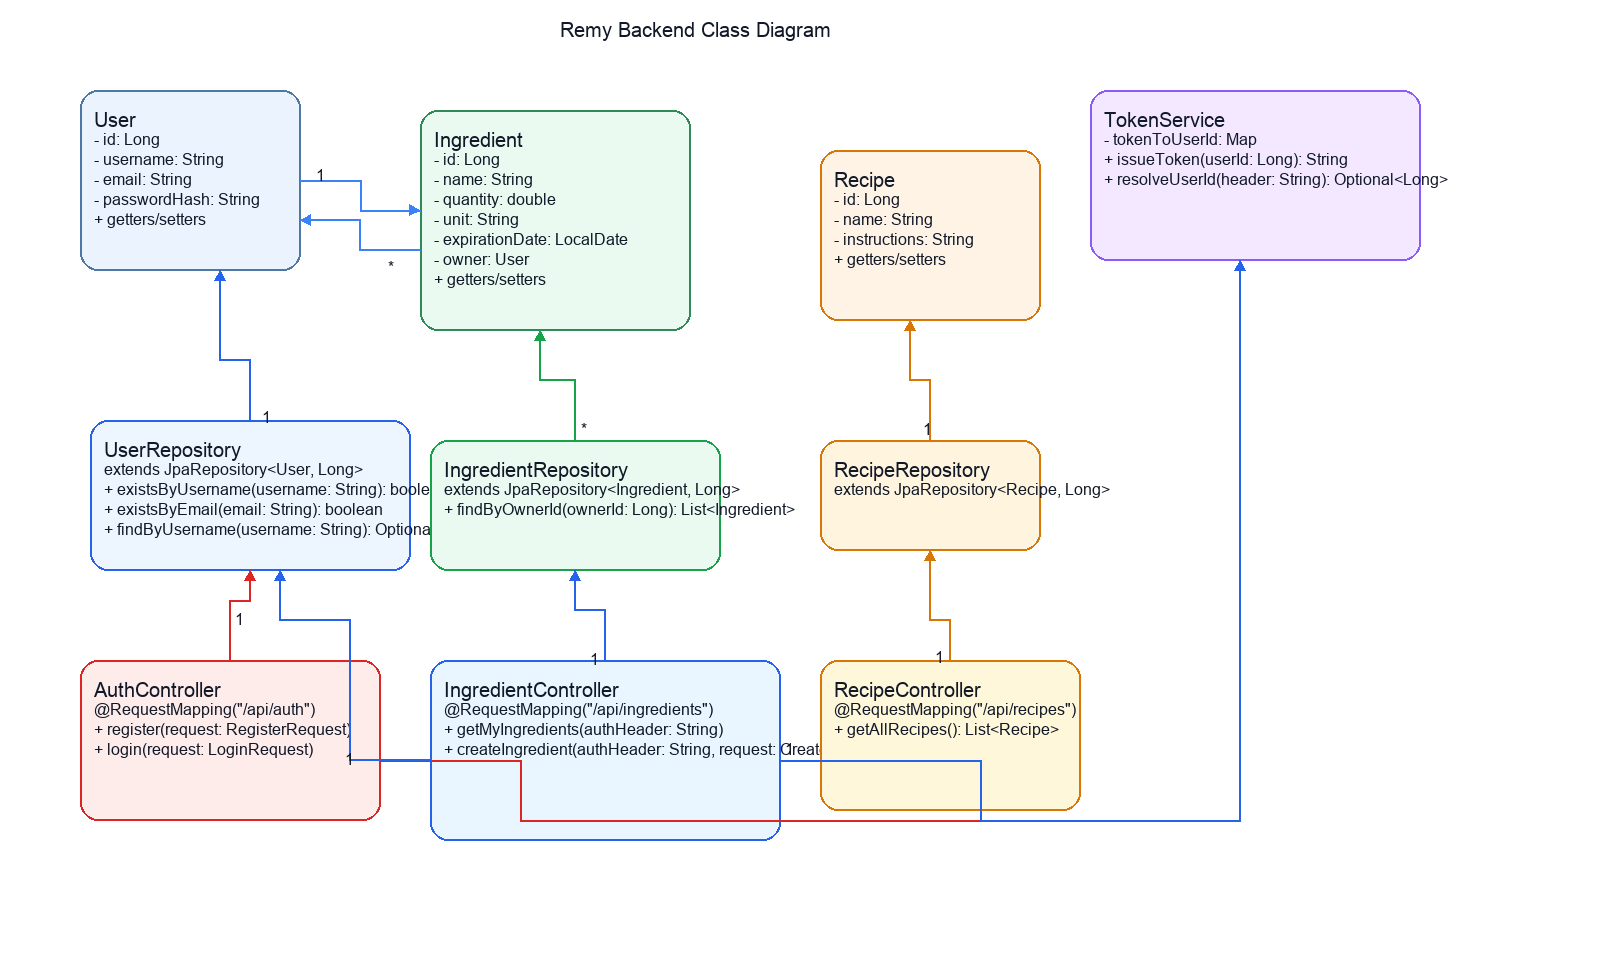
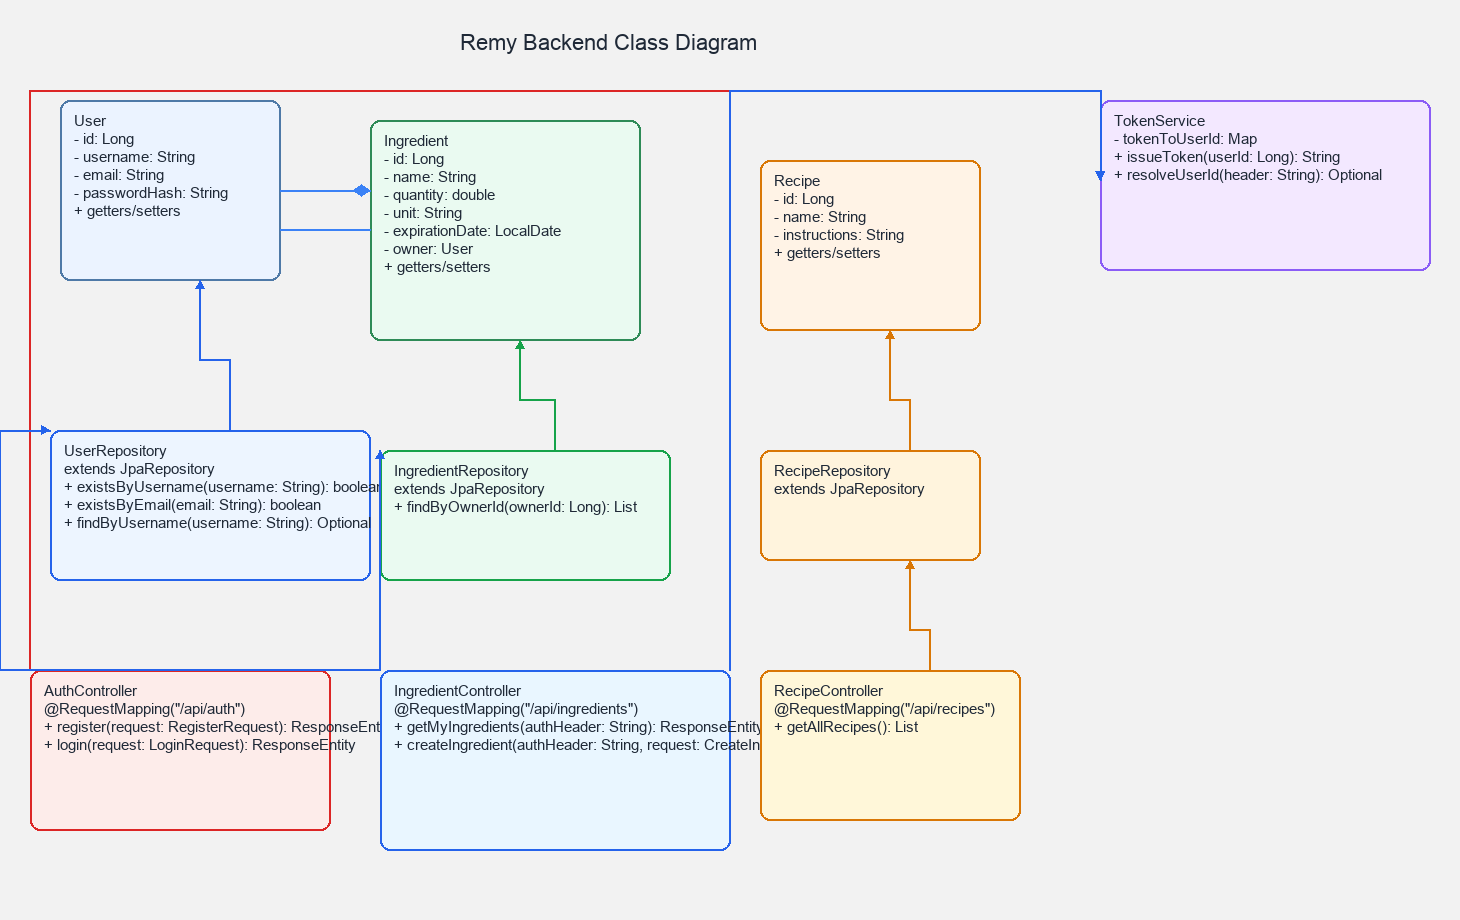
Update architecture diagram and related service tests

diff --git a/frontend/src/services/recipeServices.js b/frontend/src/services/recipeServices.js
@@ -7,3 +7,40 @@ export async function getAllRecipes() {
   }
   return response.json();
 }
+
+export async function createRecipe({ name, instructions }) {
+  const response = await fetch(`${API_BASE}/recipes`, {
+    method: 'POST',
+    headers: { 'Content-Type': 'application/json' },
+    body: JSON.stringify({ name, instructions }),
+  });
+  const data = await response.json().catch(() => ({}));
+  if (!response.ok) {
+    throw new Error(data.error || 'Could not create recipe.');
+  }
+  return data;
+}
+
+export async function updateRecipe(id, { name, instructions }) {
+  const response = await fetch(`${API_BASE}/recipes/${id}`, {
+    method: 'PUT',
+    headers: { 'Content-Type': 'application/json' },
+    body: JSON.stringify({ name, instructions }),
+  });
+  const data = await response.json().catch(() => ({}));
+  if (!response.ok) {
+    throw new Error(data.error || 'Could not update recipe.');
+  }
+  return data;
+}
+
+export async function deleteRecipe(id) {
+  const response = await fetch(`${API_BASE}/recipes/${id}`, {
+    method: 'DELETE',
+  });
+  const data = await response.json().catch(() => ({}));
+  if (!response.ok) {
+    throw new Error(data.error || 'Could not delete recipe.');
+  }
+  return data;
+}

diff --git a/frontend/src/services/ingredientServices.js b/frontend/src/services/ingredientServices.js
@@ -26,3 +26,31 @@ export async function createIngredient(token, { name, quantity, unit, expiration
   }
   return data;
 }
+
+export async function updateIngredient(token, id, { name, quantity, unit, expirationDate }) {
+  const response = await fetch(`${API_BASE}/ingredients/${id}`, {
+    method: 'PUT',
+    headers: {
+      'Content-Type': 'application/json',
+      Authorization: `Bearer ${token}`,
+    },
+    body: JSON.stringify({ name, quantity, unit, expirationDate }),
+  });
+  const data = await response.json().catch(() => ({}));
+  if (!response.ok) {
+    throw new Error(data.error || 'Could not update ingredient.');
+  }
+  return data;
+}
+
+export async function deleteIngredient(token, id) {
+  const response = await fetch(`${API_BASE}/ingredients/${id}`, {
+    method: 'DELETE',
+    headers: { Authorization: `Bearer ${token}` },
+  });
+  const data = await response.json().catch(() => ({}));
+  if (!response.ok) {
+    throw new Error(data.error || 'Could not delete ingredient.');
+  }
+  return data;
+}

diff --git a/backend/src/test/java/com/remy/backend/controller/CrudApiControllerTest.java b/backend/src/test/java/com/remy/backend/controller/CrudApiControllerTest.java
@@ -74,6 +74,22 @@ class CrudApiControllerTest {
     }
 
     @Test
+    void ingredientCreateRejectsMissingRequiredFields() {
+        String token = registerAndGetToken("crud_validation_user", "crud-validation@example.com", "password123");
+        HttpHeaders headers = new HttpHeaders();
+        headers.set("Authorization", "Bearer " + token);
+
+        ResponseEntity<Map> response = restTemplate.exchange(
+                "/api/ingredients",
+                HttpMethod.POST,
+                new HttpEntity<>(Map.of("name", "", "quantity", 1.0, "unit", "pieces"), headers),
+                Map.class);
+
+        assertThat(response.getStatusCode()).isEqualTo(HttpStatus.BAD_REQUEST);
+        assertThat(response.getBody()).containsEntry("error", "Name, unit, and expiration date are required.");
+    }
+
+    @Test
     void recipeCrudFlowWorks() {
         HttpHeaders headers = new HttpHeaders();
 
@@ -105,6 +121,75 @@ class CrudApiControllerTest {
 
         assertThat(deleteResponse.getStatusCode()).isEqualTo(HttpStatus.OK);
         assertThat(deleteResponse.getBody()).containsEntry("deleted", true);
+    }
+
+    @Test
+    void recipeCreateRejectsMissingInstructions() {
+        HttpHeaders headers = new HttpHeaders();
+
+        ResponseEntity<Map> response = restTemplate.exchange(
+                "/api/recipes",
+                HttpMethod.POST,
+                new HttpEntity<>(Map.of("name", "Pasta"), headers),
+                Map.class);
+
+        assertThat(response.getStatusCode()).isEqualTo(HttpStatus.BAD_REQUEST);
+        assertThat(response.getBody()).containsEntry("error", "Name and instructions are required.");
+    }
+
+    @Test
+    void ingredientUpdateRequiresOwnership() {
+        String ownerToken = registerAndGetToken("owner_user", "owner@example.com", "password123");
+        String otherToken = registerAndGetToken("other_user", "other@example.com", "password123");
+
+        HttpHeaders ownerHeaders = new HttpHeaders();
+        ownerHeaders.set("Authorization", "Bearer " + ownerToken);
+
+        CreateIngredientRequest create = new CreateIngredientRequest();
+        create.setName("Banana");
+        create.setQuantity(2.0);
+        create.setUnit("pieces");
+        create.setExpirationDate(java.time.LocalDate.now().plusDays(2));
+
+        ResponseEntity<Map> createResponse = restTemplate.exchange(
+                "/api/ingredients",
+                HttpMethod.POST,
+                new HttpEntity<>(create, ownerHeaders),
+                Map.class);
+
+        Long ingredientId = ((Number) createResponse.getBody().get("id")).longValue();
+
+        HttpHeaders otherHeaders = new HttpHeaders();
+        otherHeaders.set("Authorization", "Bearer " + otherToken);
+
+        ResponseEntity<Map> forbiddenResponse = restTemplate.exchange(
+                "/api/ingredients/{id}",
+                HttpMethod.PUT,
+                new HttpEntity<>(Map.of(
+                        "name", "Not Mine",
+                        "quantity", 99.0,
+                        "unit", "pieces",
+                        "expirationDate", java.time.LocalDate.now().plusDays(1)),
+                        otherHeaders),
+                Map.class,
+                ingredientId);
+
+        assertThat(forbiddenResponse.getStatusCode()).isEqualTo(HttpStatus.FORBIDDEN);
+        assertThat(forbiddenResponse.getBody()).containsEntry("error", "You can only update your own ingredients.");
+    }
+
+    @Test
+    void ingredientDeleteRequiresAuthentication() {
+        HttpHeaders headers = new HttpHeaders();
+
+        ResponseEntity<Map> response = restTemplate.exchange(
+                "/api/ingredients/99999",
+                HttpMethod.DELETE,
+                new HttpEntity<>(headers),
+                Map.class);
+
+        assertThat(response.getStatusCode()).isEqualTo(HttpStatus.UNAUTHORIZED);
+        assertThat(response.getBody()).containsEntry("error", "Log in to delete ingredients.");
     }
 
     private String registerAndGetToken(String username, String email, String password) {
